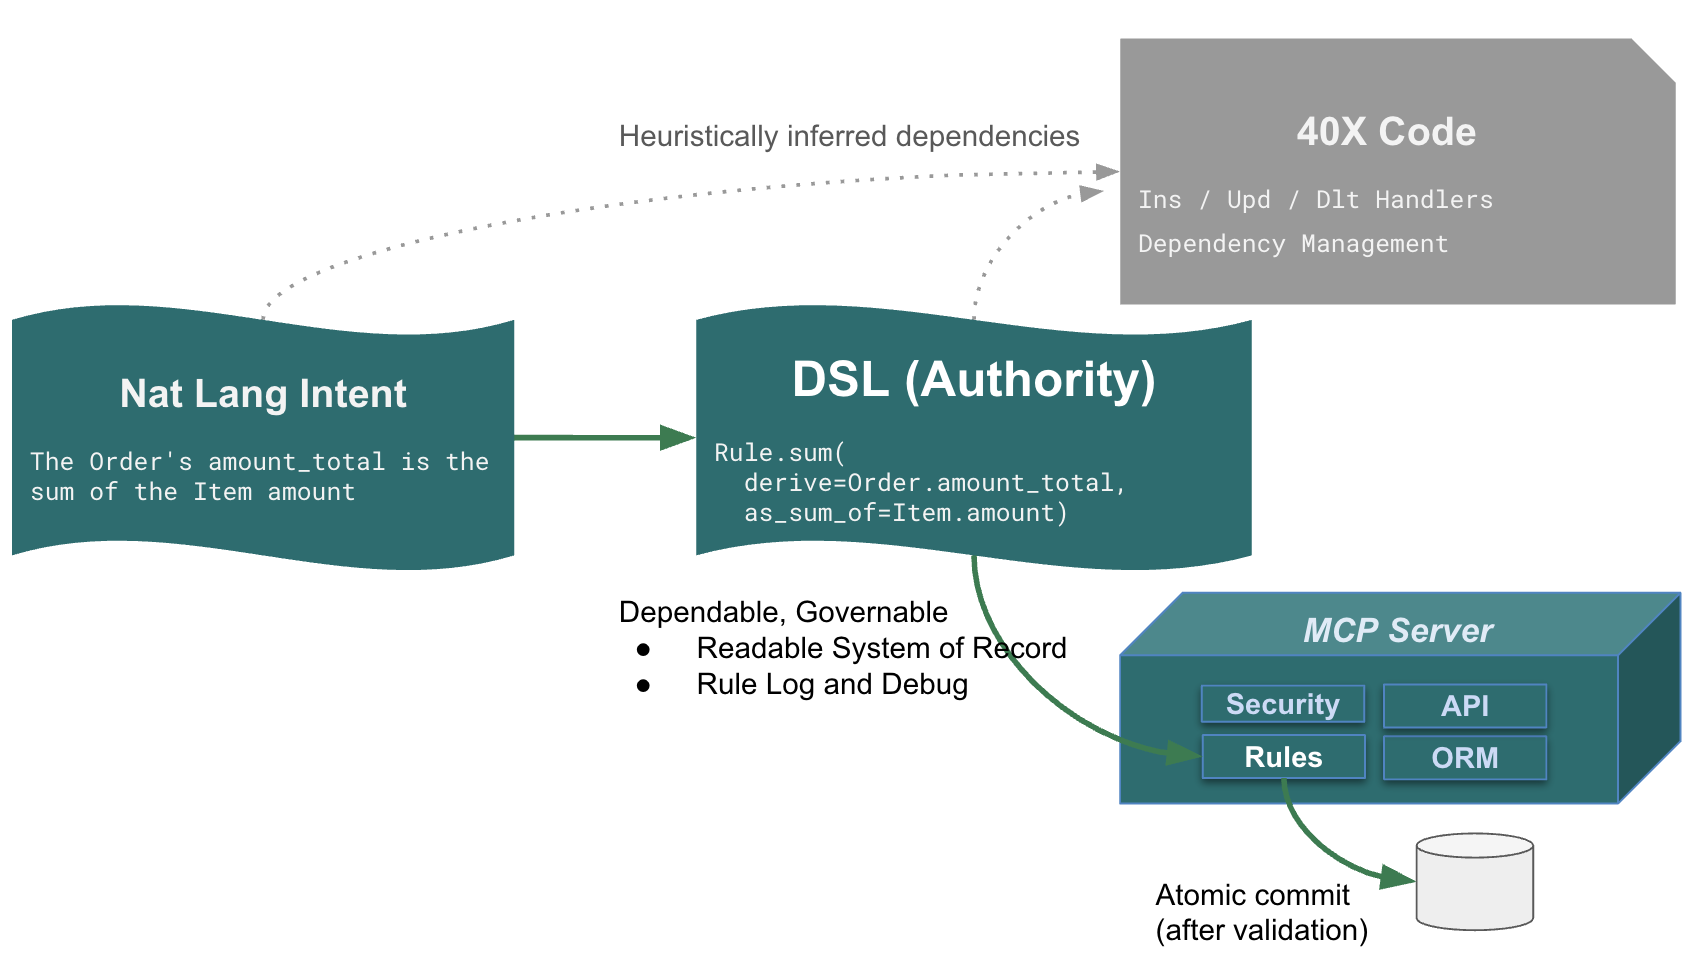
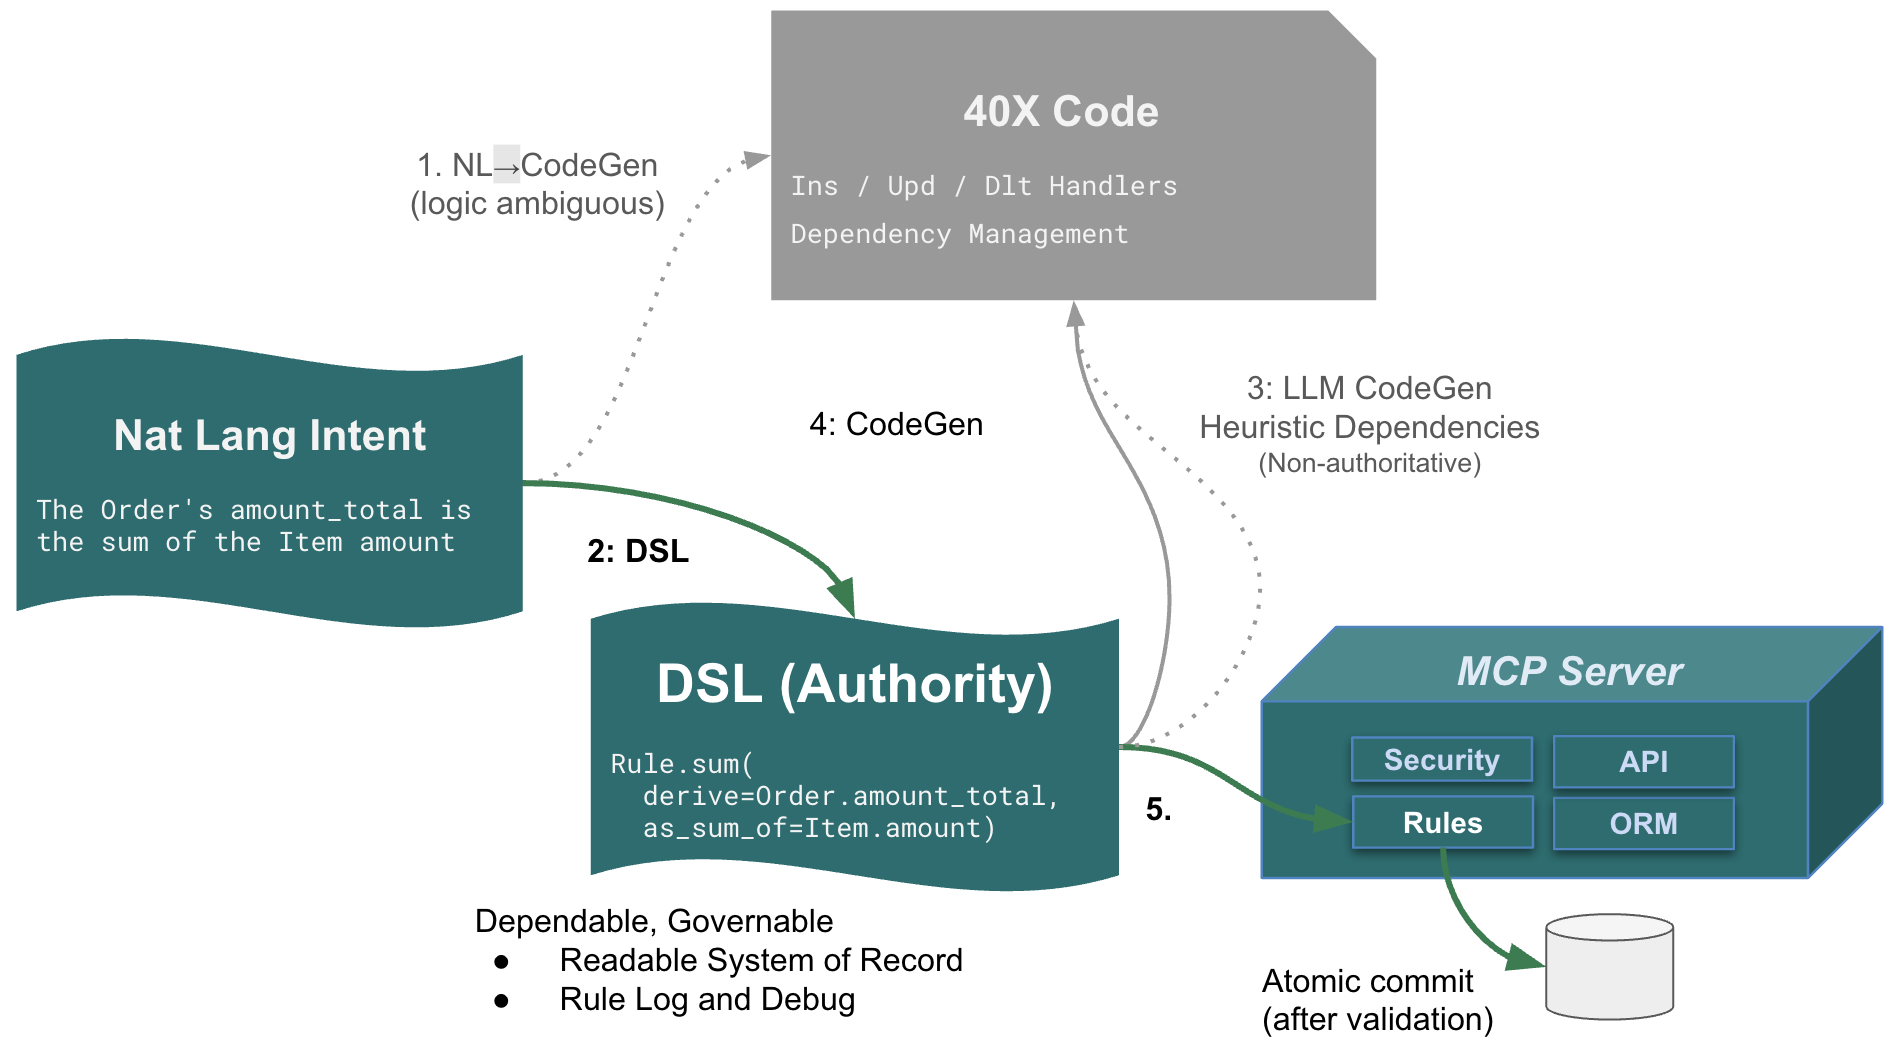
section 3 rw

diff --git a/docs/Tech-Business-Logic-Agent.md b/docs/Tech-Business-Logic-Agent.md
@@ -62,11 +62,11 @@ Natural language changes this model completely.
 
 The natural-language descriptions used here are **declarative**, not procedural:
 
-- They state ***what* must be true**, not *how* to compute it.  
-- They capture policy in a form business users can read.  
-- They avoid procedural glue code.  
+- They capture policy in a form business users can read: how our data is validated, computed, and integrated. 
+- They are assertions ***what* must be true after commit**, not *how* to enforce it.  
 - They are dramatically more concise than procedural equivalents.  
 - They provide a clean foundation for generation and governance.
+- They avoid procedural glue code.  
 
 For example:
 
@@ -79,28 +79,38 @@ Here is a concrete example of a unified, declarative natural-language descriptio
 ### Declarative NL Logic
 
 ```bash title='Declarative NL Logic'
-Use case: Check Credit
+Use case: Check Credit Logic
 
 1. The Customer's balance is less than the credit limit  
 2. The Customer's balance is the sum of the Order amount_total where date_shipped is null  
 3. The Order's amount_total is the sum of the Item amount  
 4. The Item amount is the quantity * unit_price  
-5. The Price is copied from the Product  
+5. The Price is from the Product  
 
 Use case: App Integration
 
 1. Send the Order to Kafka topic `order_shipping` if `date_shipped` is not None.
 ```
 
-These two use cases are expressed entirely in declarative natural language — including deterministic rules (1–5) and an integration rule.
+The logic for our two use cases are expressed entirely in declarative natural language — including deterministic logic (1–5) and integration logic.  Importantly, note that the logic has a **dependencies.**  Correct results require **dependency management:** dependencies must be recognized, and executed in a proper order.
 
 ---
 
-## 3. Declarative Logic & DSL — NL → DSL → Engine
+<br>
 
-### DSL Example
+## 3. Make Logic Executable: Rules
 
-```python title='Generated DSL Code from Declarative NL Logic (above)'
+The declarative natural-language logic above is a good formulation — but it must become **executable**, without collapsing back into procedural glue code or *guessing* at dependencies. The decision tree below summarizes the key alternatives:
+
+![Logic Architecture](images/logic/logic-architecture.png)
+
+### Introducing the Rules DSL (Domain Specific Language)
+
+Our natural-language logic is concise and high-level, but it is not fully **rigorous**. For example: is `price` *copied* from the Product once, or *referenced* (so later Product price changes update Order totals)? That ambiguity makes **Alt-1** a poor choice.
+
+So we translate the natural-language logic into a **Rules DSL** that preserves the high level of abstraction while making intent **unambiguous**. We teach this DSL to the LLM by defining a small set of **rule types** (sum, formula, constraint, copy, event, etc.), enabling the LLM to convert the logic above into:
+
+```python title="Generated DSL Code from Declarative NL Logic (above)"
     # Check Credit
     Rule.constraint(validate=models.Customer, as_condition=lambda row: row.balance <= row.credit_limit, error_msg="Customer balance exceeds credit limit")                    
     Rule.sum(derive=models.Customer.balance, as_sum_of=models.Order.amount_total, where=lambda row: row.date_shipped is None)    
@@ -113,56 +123,51 @@ These two use cases are expressed entirely in declarative natural language — i
                                if_condition=lambda row: row.date_shipped is not None, with_args={'topic': 'order_shipping'})
 ```
 
-### Why a Declarative DSL for Governable Logic
+This avoids the issues around **(1)** in the diagram above: the logic must be disambiguated.
 
-Natural language is ideal for expressing business **intent** — the human-readable statement of **policy**.  
-But natural language alone is not precise enough to be the system’s source of truth.
+This DSL becomes the **system of record**: it is readable, reviewable, and can be checked into git.  
 
-A declarative DSL preserves policy in a form that is **correct, readable, and explainable**.
+<br>
 
-When you look at a DSL rule, you can immediately see **what policy is enforced** and **what data it depends on** — without reading procedural code or simulating execution.
+### CodeGen vs Runtime Engine
 
-This matters because **dependencies must not be guessed**.  
-When logic is generated directly as procedural code, dependencies are inferred from patterns and context. These guesses are usually right — but when they are wrong, the result is a **real business logic bug**. Because the original policy is buried in control flow, such bugs are **extremely difficult to detect and explain**.
+Next, how do we make the DSL executable? The decision tree outlines these alternatives:
 
-A DSL avoids this by making dependencies **explicit**. The system can determine what depends on what in a fixed, deterministic way — either by **generating code** from the DSL or by **interpreting the DSL at runtime**. Both work because the meaning of the logic is defined once, in the DSL, and never rediscovered later.
+- **2. LLM → code.** Use an LLM to translate DSL rules into procedural code. This is attractive, but it reintroduces the core risk: LLMs tend to manage dependencies by **heuristic pattern inference**, which can miss subtle (but real) dependencies and produce business logic bugs. We eliminated this option.
 
-This also makes **change safe**. When policy changes, the system does not re-guess dependencies or regenerate everything blindly with risk of error. It knows exactly what must be recomputed.
+    - We tried this. We asked an LLM to translate rules into code; we found two serious dependency bugs; and the LLM itself summarized dependency management as pattern-based reasoning. To see the study, [click here](https://github.com/ApiLogicServer/ApiLogicServer-src/blob/main/api_logic_server_cli/prototypes/basic_demo/logic/procedural/declarative-vs-procedural-comparison.md){:target="_blank" rel="noopener"}.
 
-![Logic Architecture](images/logic/logic-architecture.png)
+- **4. purpose-built code generator.** Write a code generator that **knows each rule type** and can compute dependencies correctly from rule semantics. This is a viable approach.
 
-During deterministic execution, the runtime scans the DSL to derive all direct and transitive dependencies, orders rule execution accordingly, and recomputes affected values until a stable state is reached.
+- **5. direct execution.** Execute the DSL directly in a rules engine.
 
-> *Implementation note:* At runtime, the rules engine hooks into the ORM transaction lifecycle (e.g., SQLAlchemy unit-of-work/commit events) to trigger dependency-ordered recomputation and constraint enforcement before the update is committed.
+Both code generation and direct execution can be correct **provided dependencies are derived from rule semantics, not inferred heuristically**.
 
+We chose **direct execution** because it preserves the highest level of abstraction — declarative rules — from definition through runtime. This avoids introducing a secondary procedural layer that obscures intent, complicates debugging, and fractures governance. The rules themselves remain the executable system of record, not an artifact derived from them.
 
-**Important architectural distinction**
+<br>
 
-Although this system uses declarative rules, it is not a RETE-style inference engine.
+### The Rules Engine
 
-Traditional RETE engines optimize pattern matching for expert systems, but perform poorly for transactional business logic due to state retention, non-deterministic propagation, and inefficient handling of multi-table updates.
+The LogicBank rules engine fulfills this role. It is designed explicitly for **transactional correctness and performance**:
 
-The GABL rules engine is designed explicitly for **transactional correctness**. It performs dependency-ordered recomputation over relational data, uses SQL-backed aggregation, enforces constraints deterministically on every update, and converges to a stable state before committing changes.
+- dependency-ordered recomputation,
+- SQL-backed aggregation,
+- constraint enforcement *before commit*,
+- audit logging,
+- and transactional commit boundaries.
 
-This defines a clear **transactional commit boundary**: all derived values, constraints, and any AI-assisted decisions are fully validated before the system atomically commits state or rejects the update.
+It is **not** a RETE-style inference engine. Traditional RETE engines optimize forward-chaining inference but perform poorly for transactional business logic due to:
 
-This execution model is optimized for enterprise transactions — not forward-chaining inference — and is what allows declarative logic to be both safe and performant in real systems.
+- state retention,
+- non-deterministic propagation,
+- control-flow assumptions,
+- and difficulty with multi-table transactional updates.
 
-The engine further improves scalability through pruning, dependency scoping, and SQL-level optimization; see [*Scalability, Prune, and Optimize*](http://127.0.0.1:8000/Tech-Business-Logic-Agent/#why-a-declarative-dsl-for-governable-logic){:target="_blank" rel="noopener"} for details.
+This approach preserves not only readability, but **debuggability**, since we can log and debug at the **rule level** rather than the code level:
 
-This guarantees that long dependency chains are handled completely and consistently — without relying on guessed control flow or regenerated procedural paths.
+![Logic Debugger](images/basic_demo/logic-chaining.jpeg)
 
-Finally, a DSL makes the system **governable**.  
-**Governable means correct, readable, and explainable**: you can read the rules to understand the policy, and you can see — in the logic log — exactly how each rule was applied and how state changed as a result.
-
-![Logic Debugger](images/basic_demo/logic-chaining.jpeg) 
-
-Generated procedural code may be correct.  
-But only a declarative DSL makes correctness **visible and provable**.
-
-But deterministic rules are only half the story. Modern systems also require logic we rarely attempted to hand-code — logic that depends on reasoning, exploration, and world context.
-
-That brings us to the second mode of logic AI enables: **probabilistic logic**.
 
 ---
 
@@ -494,3 +499,145 @@ While adding something most agent architectures lack:
 **deterministic governance at the point where AI touches real state.**
 
 This enables agentic behavior that is deployable, explainable, and safe in enterprise systems.
+
+<br>
+
+---
+
+## Appendix — What “Governable” Means
+
+In Governed Agentic Business Logic (GABL), *governable* does not mean restrictive or static.
+It means that AI-assisted behavior operates within a system whose correctness, dependencies, and outcomes are
+**defined, enforced, and explainable by the runtime itself**.
+
+This appendix clarifies what governable means in concrete architectural terms.
+
+---
+
+### 1. Authoritative Source of Truth
+
+A governable system has a single, authoritative definition of behavior.
+
+In GABL, that authority is the **declarative DSL** — not natural language and not generated procedural code.
+
+- Natural language expresses intent.
+- AI may propose logic or values.
+- The DSL defines what the system actually enforces.
+
+If behavior is not represented in the DSL, it is not authoritative and cannot affect system state.
+
+---
+
+### 2. Explicit Dependencies — Derived by Rule Semantics (Not Inferred)
+
+Governable systems must compute dependencies **completely and correctly**.
+
+In GABL, dependencies are *not* discovered by scanning text, control flow, or generated code.
+Instead, dependencies are derived **semantically**, based on the **rule type** being declared.
+
+Each DSL rule type (e.g., `sum`, `formula`, `constraint`, `copy`, `event`) has well-defined semantics.
+The runtime knows, for each rule type:
+
+- which attributes are read,
+- which attributes are written,
+- how foreign-key relationships participate,
+- how changes propagate transitively across entities.
+
+For example:
+- A `sum` rule explicitly depends on the target attribute, the source attribute, and the foreign-key path connecting them.
+- A `copy` rule depends on the parent relationship and the copied attribute.
+- A `constraint` depends on all attributes referenced by its condition.
+
+Because dependencies are computed from rule semantics — not guessed from code structure —
+the system accounts for **all relevant dependencies**, including those implied by foreign keys.
+
+This is exactly where procedural generation fails:
+foreign-key dependencies are often implicit in control flow and are easy to miss,
+leading to incorrect recomputation and subtle logic bugs.
+
+---
+
+### 3. Deterministic Execution
+
+Governance requires deterministic execution.
+
+In GABL:
+- all state changes pass through a deterministic execution engine,
+- derived values are recomputed in dependency order,
+- constraint checks are enforced on every update.
+
+Given the same inputs, the system produces the same outcomes —
+independent of execution order, regeneration, or AI involvement.
+
+---
+
+### 4. Transactional Commit Boundary
+
+Governable behavior requires a clear transactional boundary.
+
+All deterministic rules, dependency propagation, and validations complete **before** any state is committed.
+If validation fails, the transaction is rejected and no partial state is written.
+
+This ensures:
+- atomic updates,
+- no inconsistent intermediate states,
+- predictable and explainable behavior.
+
+AI-assisted decisions never bypass this boundary.
+
+---
+
+### 5. Bounded Use of AI
+
+AI is powerful, but non-deterministic.
+
+In GABL:
+- AI is used only where explicitly declared (probabilistic logic),
+- AI proposes values or decisions,
+- deterministic logic validates results before commit.
+
+AI assists reasoning and selection,
+but **never defines correctness or dependencies**.
+
+---
+
+### 6. Explainability and Auditability
+
+A governable system must be explainable after the fact.
+
+For every transaction, GABL records:
+- which deterministic rules executed,
+- the dependency order in which they executed,
+- what values changed,
+- which constraints were evaluated,
+- whether the transaction committed or rolled back, and why.
+
+This provides a complete audit trail for AI-assisted behavior —
+critical for debugging, accountability, and regulated environments.
+
+---
+
+### 7. Resistance to Prompt or Agent Drift
+
+Governable systems do not rely on prompt discipline or regeneration correctness.
+
+Because dependencies, execution, and validation are enforced at runtime:
+- prompts cannot bypass rules,
+- regenerated code cannot silently alter behavior,
+- agent autonomy cannot escape constraints.
+
+Governance is enforced by the execution model itself, not by convention.
+
+---
+
+### Summary
+
+In GABL, *governable* means:
+
+- behavior is defined in one authoritative DSL,
+- dependencies are derived from rule semantics, not inferred,
+- execution is deterministic and transactional,
+- AI operates within enforced boundaries,
+- outcomes are explainable and auditable.
+
+This is what makes agentic behavior safe, evolvable, and deployable in real enterprise systems.
